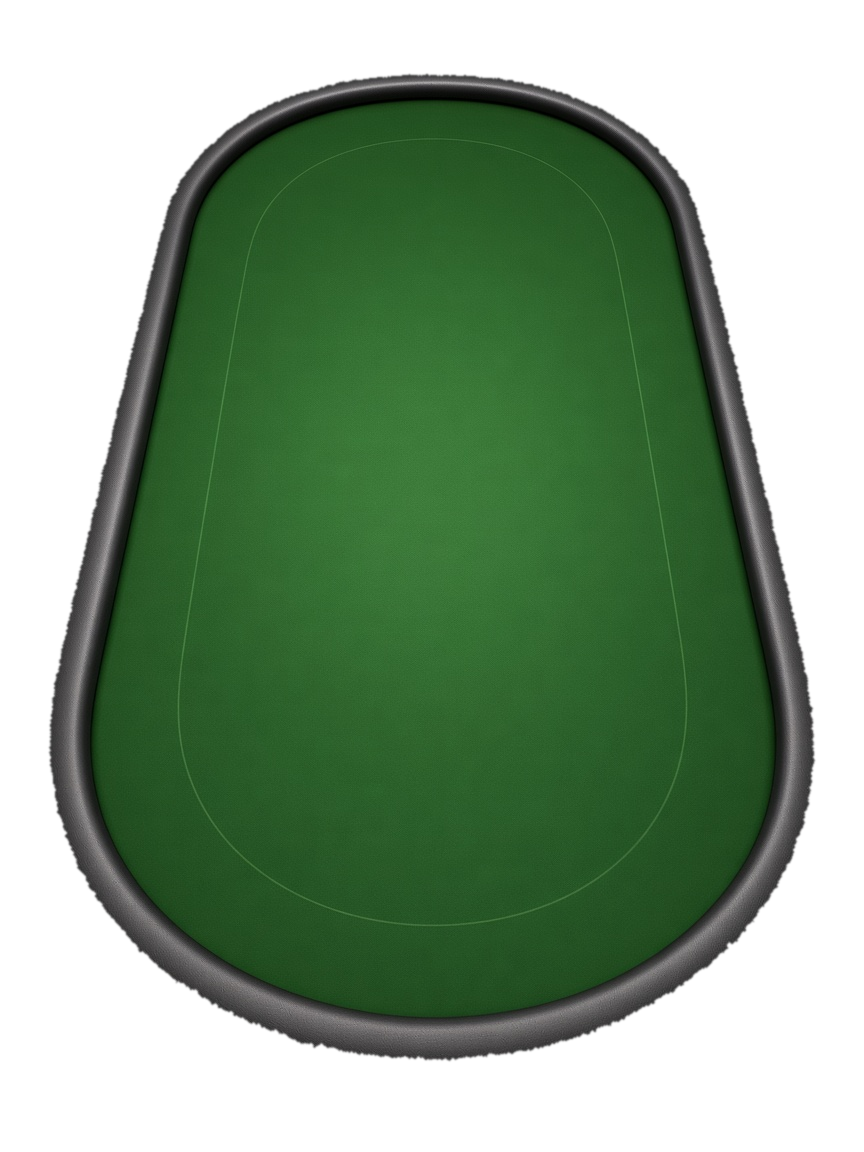
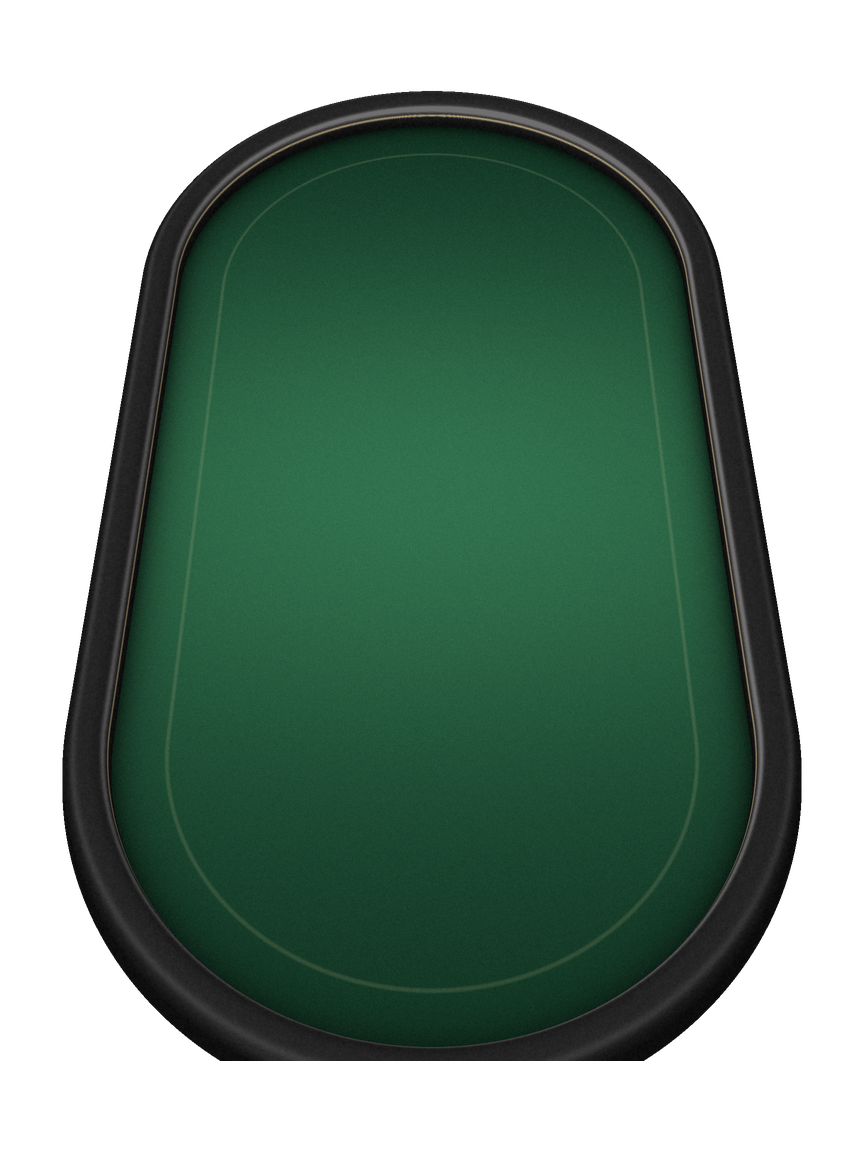
feat(table): a faint line, and a phone table from the same renderer

Changed region(s): [[0.0312, 0.0625, 0.9688, 0.9375], [0.7188, 0.7188, 0.75, 0.75]]

diff --git a/app/lab/felt/page.tsx b/app/lab/felt/page.tsx
@@ -1,0 +1,57 @@
+import type { Metadata } from 'next'
+
+export const metadata: Metadata = { title: 'Felt', robots: { index: false } }
+
+/*
+ * The cloth, before and after. Rendered by `scripts/render-table.py`,
+ * which is why these are pictures rather than components: the table's light,
+ * rail and weave are baked into a still, and only the things on top of it are
+ * drawn by the app.
+ */
+const TABLES = [
+  {
+    src: '/lab/table-before.png',
+    name: 'Desktop, before',
+    note: 'The champagne betting line printed at full strength — the circle that read as a diagram.',
+  },
+  {
+    src: '/table-desktop-salon.png',
+    name: 'Desktop, now',
+    note: 'The same line at a quarter of its strength: an edge to the cloth, not a drawn-on ring.',
+  },
+  {
+    src: '/lab/mobile-before.png',
+    name: 'Phone, before',
+    note: 'A hand-made picture on the house green, which never matched the desktop table beside it.',
+  },
+  {
+    src: '/table-mobile.png',
+    name: 'Phone, now',
+    note: 'The same renderer, stood on its end in the Salon colours, landing on the old oval so no seat moves.',
+  },
+]
+
+/** The cloth treatments, one under another, at the size the table is drawn. */
+export default function FeltLab() {
+  return (
+    <main className="table-room min-h-dvh px-6 py-10">
+      <div className="mx-auto flex w-full max-w-5xl flex-col gap-10">
+        <div>
+          <h1 className="wordmark text-4xl font-medium">Felt</h1>
+          <p className="text-muted-foreground pt-2 text-[14px]">
+            The same table, rendered three ways. Seats, cards and chips are drawn on top of whichever
+            of these the app is given.
+          </p>
+        </div>
+        {TABLES.map((table) => (
+          <section key={table.name} className="flex flex-col gap-2">
+            <h2 className="text-foreground text-lg font-semibold">{table.name}</h2>
+            <p className="text-muted-foreground text-[13px]">{table.note}</p>
+            {/* eslint-disable-next-line @next/next/no-img-element */}
+            <img src={table.src} alt={table.name} className="w-full rounded-[3px]" />
+          </section>
+        ))}
+      </div>
+    </main>
+  )
+}

diff --git a/components/TableBody.tsx b/components/TableBody.tsx
@@ -2,8 +2,8 @@
  * The table as ClubGG draws it: a still, not a mesh.
  *
  * One pose for a phone (the oval stands up) and one for a wide screen (the 2:1
- * felt). The wide one is the Salon render — `render-table-desktop.py --skin
- * salon` — which prints its own racing green and champagne line. Seats, cards and chips stay 2D on top — that is the same split their
+ * felt). Both are the Salon render — `render-table.py --skin salon [--pose
+ * mobile]` — which prints its own racing green and the faint champagne line. Seats, cards and chips stay 2D on top — that is the same split their
  * Unity client uses, and it is why the nameplates stay readable.
  *
  * `className` swaps the skin, not the file: the win veil is this same picture

diff --git a/app/lab/salon/page.tsx b/app/lab/salon/page.tsx
@@ -32,7 +32,7 @@ const index = Oswald({
  * The Private Salon, as a still life.
  *
  * The approved direction from the luxury revamp, on the real 3D table rendered
- * in the Salon skin (`render-table-desktop.py --skin salon`). Kept off the
+ * in the Salon skin (`render-table.py --skin salon`). Kept off the
  * index like the other lab: nothing live imports from here and this imports
  * nothing from the live table's components beyond the chips, so the route can
  * be deleted in one move once the look has been carried over.

diff --git a/scripts/render-table.py b/scripts/render-table.py
@@ -20,7 +20,7 @@ green, a champagne betting line, and a thin champagne strip set into the rail
 where it meets the cloth. The geometry, camera and light are untouched, so the
 seat ring lands on it exactly as it does on the house table.
 
-    python3 scripts/render-table-desktop.py [--skin house|salon] [--out PATH]
+    python3 scripts/render-table.py [--skin house|salon] [--pose desktop|mobile] [--out PATH]
 """
 
 import argparse
@@ -32,6 +32,25 @@ from scipy.ndimage import gaussian_filter
 # Output matches the desktop .table-stage (sm:aspect-2/1), so nothing stretches.
 OUT_W, OUT_H = 1280, 640
 SS = 2  # supersampling
+
+# The phone pose: the same table stood on its end, in the 3:4 box the portrait
+# stage gives it. Its extents are chosen to land on the oval the old hand-made
+# picture had, because the seat ring in `table-seating.ts` was measured against
+# that one — a table a few pixels wider would put every plate off the rail.
+MOBILE = {
+    'out_w': 864,
+    'out_h': 1152,
+    'half_straight': 258,  # the straight run, now up and down the screen
+    'end_x': 281,  # semi-axis across the table
+    'end_z': 255,  # semi-axis at each end
+    'rail': 42,
+    'tilt': 0.86,
+    'out': 'public/table-mobile.png',
+}
+
+# Whether the straight run of the stadium lies across the screen (desktop) or
+# up and down it (the phone).
+VERTICAL = False
 
 # Table, in plane units (≈ output px at the table's centre). The felt spans
 # HALF_STRAIGHT + END_X either side and END_Z front and back — the same
@@ -69,9 +88,9 @@ SKINS = {
         'felt_edge': [15, 48, 32],
         'felt_hot': [50, 114, 78],
         'line': [214, 196, 150],
-        # Printed boldly enough to read from across the room: the table's outline
-        # is what holds the seat ring together once the plates stand off it.
-        'line_strength': 0.6,
+        # A quarter of what it was: enough of an edge to hold the ring of
+        # seats together, not enough to read as a drawn-on circle.
+        'line_strength': 0.15,
         'line_width': 1.8,
         'inlay': [205, 184, 138],
         'out': 'public/table-desktop-salon.png',
@@ -85,10 +104,18 @@ def felt_edge(X, Z):
     iq's approximation for an ellipse, applied past the straight run. Exact along
     the sides and at the tips, and close enough between them that the rail's
     width does not visibly swell round the ends.
+
+    Standing the table up is the same maths with the two axes exchanged: the
+    straight run goes up and down the screen, and the ends are at the top and
+    bottom.
     """
-    qx = np.maximum(np.abs(X) - HALF_STRAIGHT, 0.0)
-    k0 = np.hypot(qx / END_X, Z / END_Z)
-    k1 = np.hypot(qx / (END_X * END_X), Z / (END_Z * END_Z))
+    if VERTICAL:
+        a, b, ea, eb = Z, X, END_Z, END_X
+    else:
+        a, b, ea, eb = X, Z, END_X, END_Z
+    q = np.maximum(np.abs(a) - HALF_STRAIGHT, 0.0)
+    k0 = np.hypot(q / ea, b / eb)
+    k1 = np.hypot(q / (ea * ea), b / (eb * eb))
     return k0 * (k0 - 1.0) / np.maximum(k1, 1e-9)
 
 
@@ -115,10 +142,26 @@ def rail_profile(d):
 def main():
     parser = argparse.ArgumentParser()
     parser.add_argument('--skin', choices=sorted(SKINS), default='house')
+    parser.add_argument('--pose', choices=['desktop', 'mobile'], default='desktop')
     parser.add_argument('--out')
+    # Overrides, for trying a cloth without editing the skin: how strongly the
+    # betting line is printed, and how far the overhead light spreads before it
+    # falls away to the deep green under the rail.
+    parser.add_argument('--line-strength', type=float)
+    parser.add_argument('--spot', type=float, default=1.0)
     args = parser.parse_args()
     skin = SKINS[args.skin]
     out_path = args.out or skin['out']
+
+    global OUT_W, OUT_H, HALF_STRAIGHT, END_X, END_Z, RAIL, TILT, VERTICAL
+    if args.pose == 'mobile':
+        OUT_W, OUT_H = MOBILE['out_w'], MOBILE['out_h']
+        HALF_STRAIGHT = MOBILE['half_straight']
+        END_X, END_Z = MOBILE['end_x'], MOBILE['end_z']
+        RAIL = MOBILE['rail']
+        TILT = MOBILE['tilt']
+        VERTICAL = True
+        out_path = args.out or MOBILE['out']
     FELT_EDGE = np.array(skin['felt_edge'], np.float32)
     FELT_HOT = np.array(skin['felt_hot'], np.float32)
     LINE = np.array(skin['line'], np.float32)
@@ -195,12 +238,14 @@ def main():
 
     # Felt: an overhead light brightest in the middle, falling off to a deep
     # green under the rail, one betting line, and the cloth's weave.
-    spot = np.exp(-((HX / 620) ** 2 + (HZ / 340) ** 2))
+    spot = np.exp(-((HX / (620 * args.spot)) ** 2 + (HZ / (340 * args.spot)) ** 2))
     felt = FELT_EDGE + (FELT_HOT - FELT_EDGE) * spot[..., None]
     occlusion = 1.0 - 0.6 * np.exp(np.minimum(d, 0) / 14)
     felt *= occlusion[..., None]
-    line = np.clip(1.4 - np.abs(d + LINE_INSET) / skin['line_width'], 0, 1) * skin['line_strength']
-    felt += (LINE - felt) * line[..., None]
+    line_strength = skin['line_strength'] if args.line_strength is None else args.line_strength
+    if line_strength > 0:
+        line = np.clip(1.4 - np.abs(d + LINE_INSET) / skin['line_width'], 0, 1) * line_strength
+        felt += (LINE - felt) * line[..., None]
     weave = (
         rng.normal(0, 3.2, (H, W)).astype(np.float32)
         + gaussian_filter(rng.normal(0, 1, (H, W)).astype(np.float32), 0.7) * 5.0
